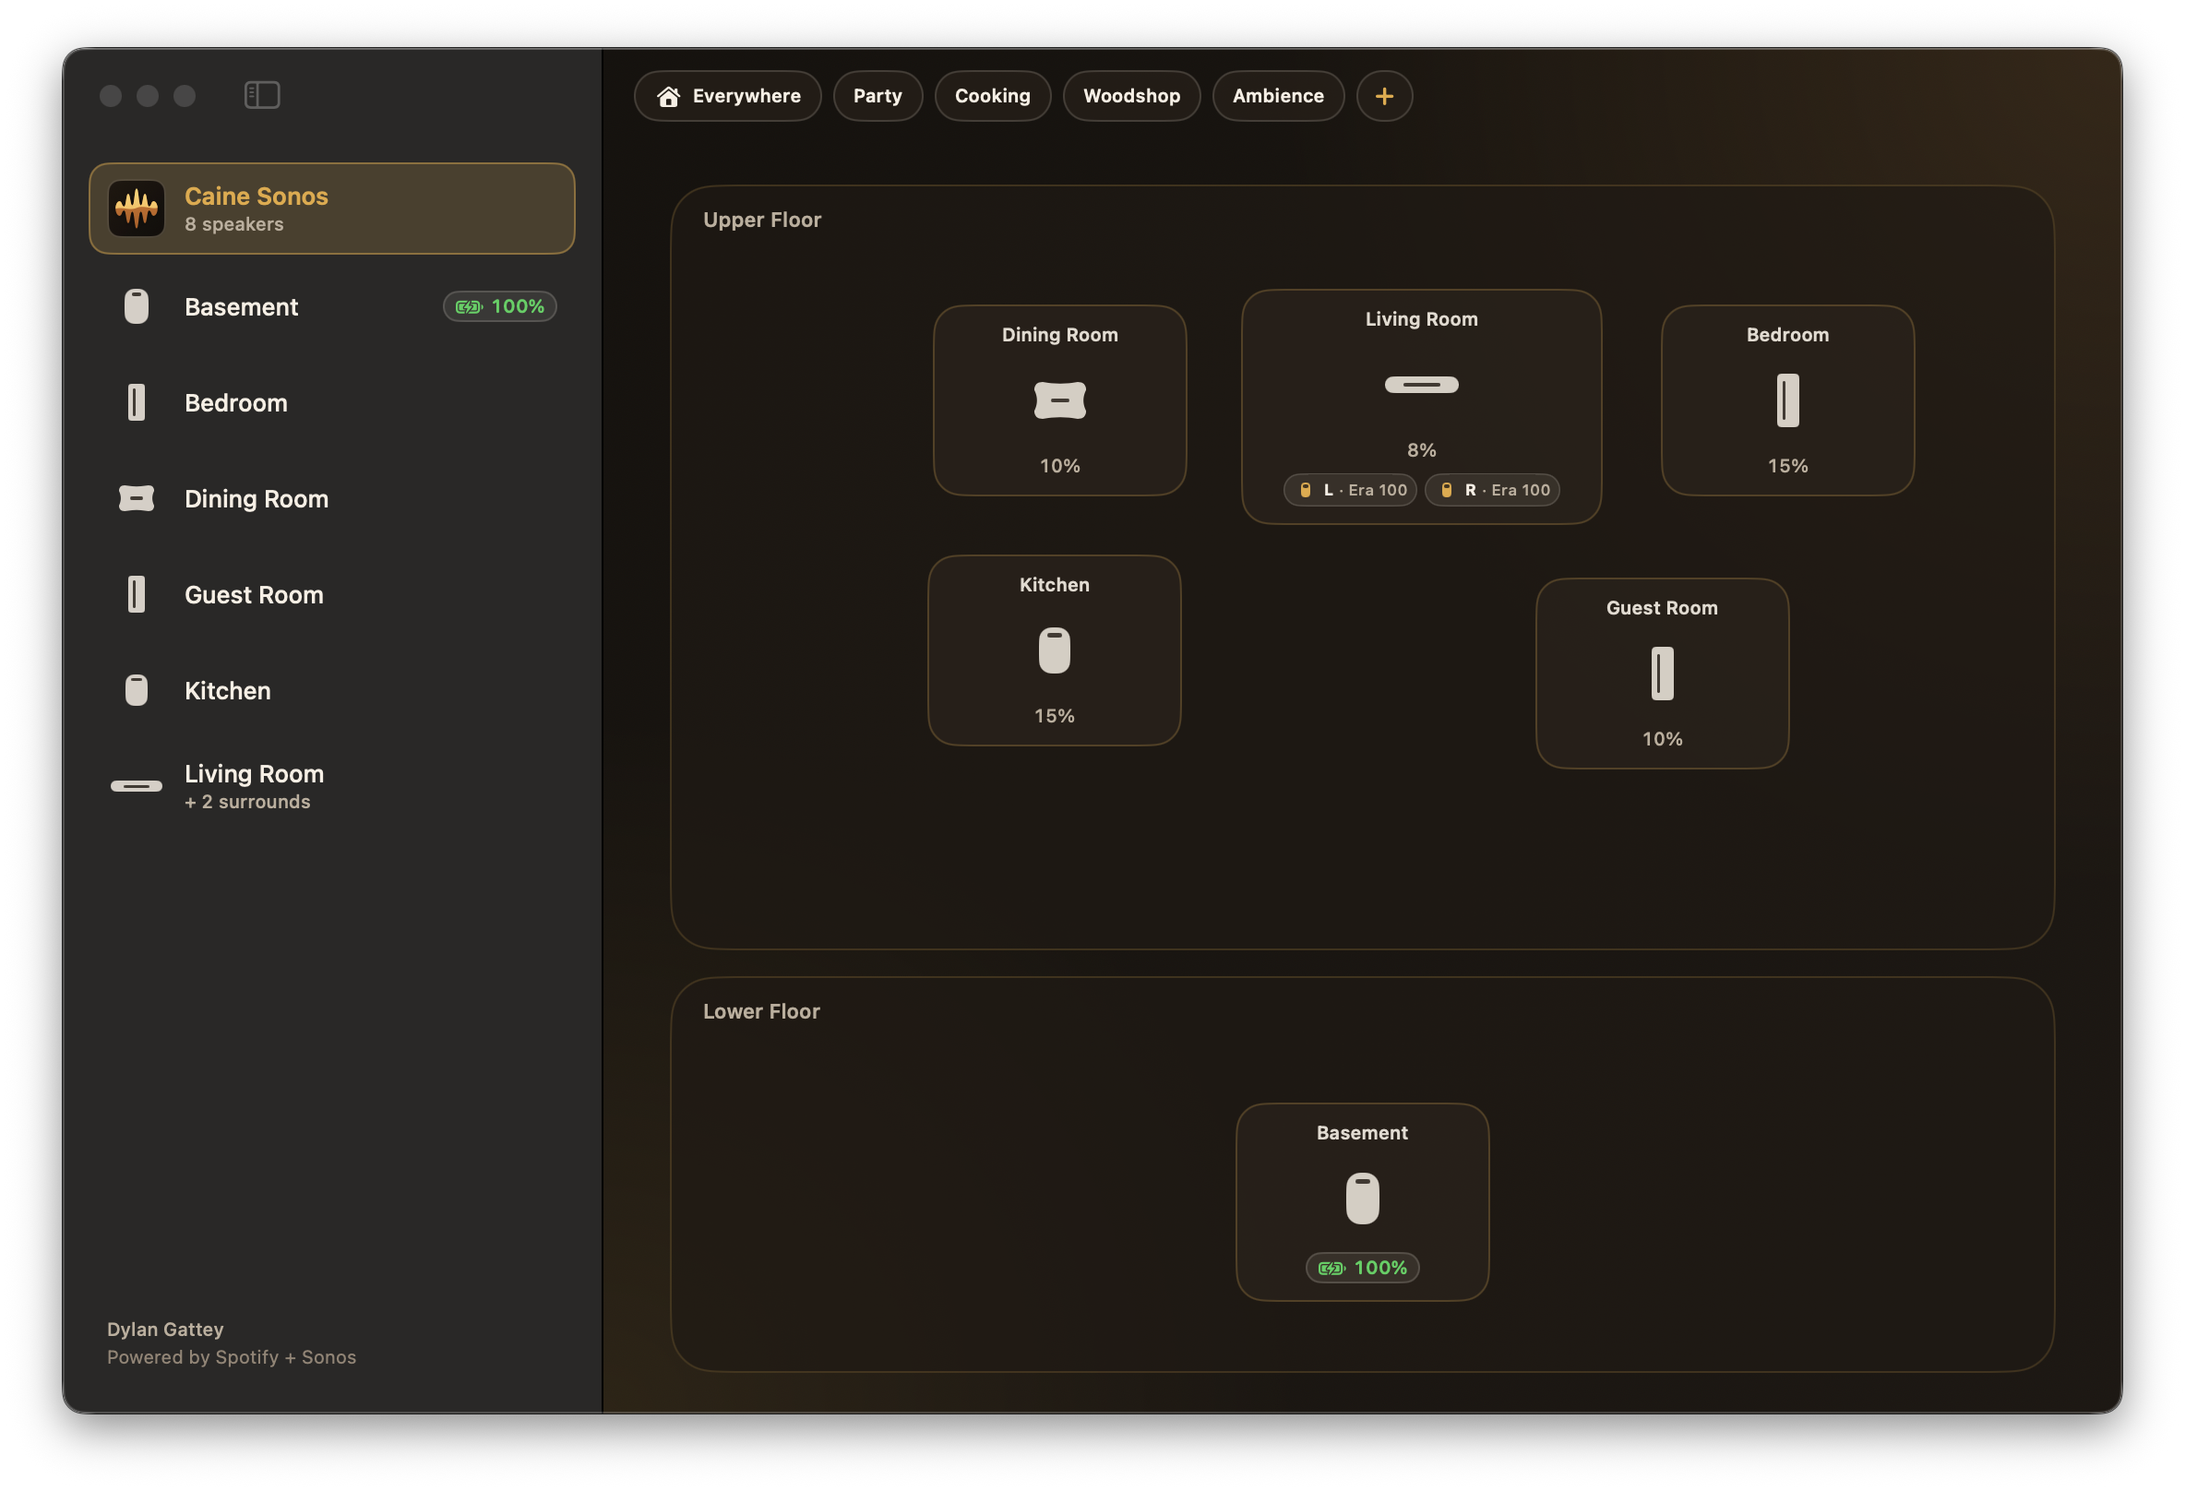
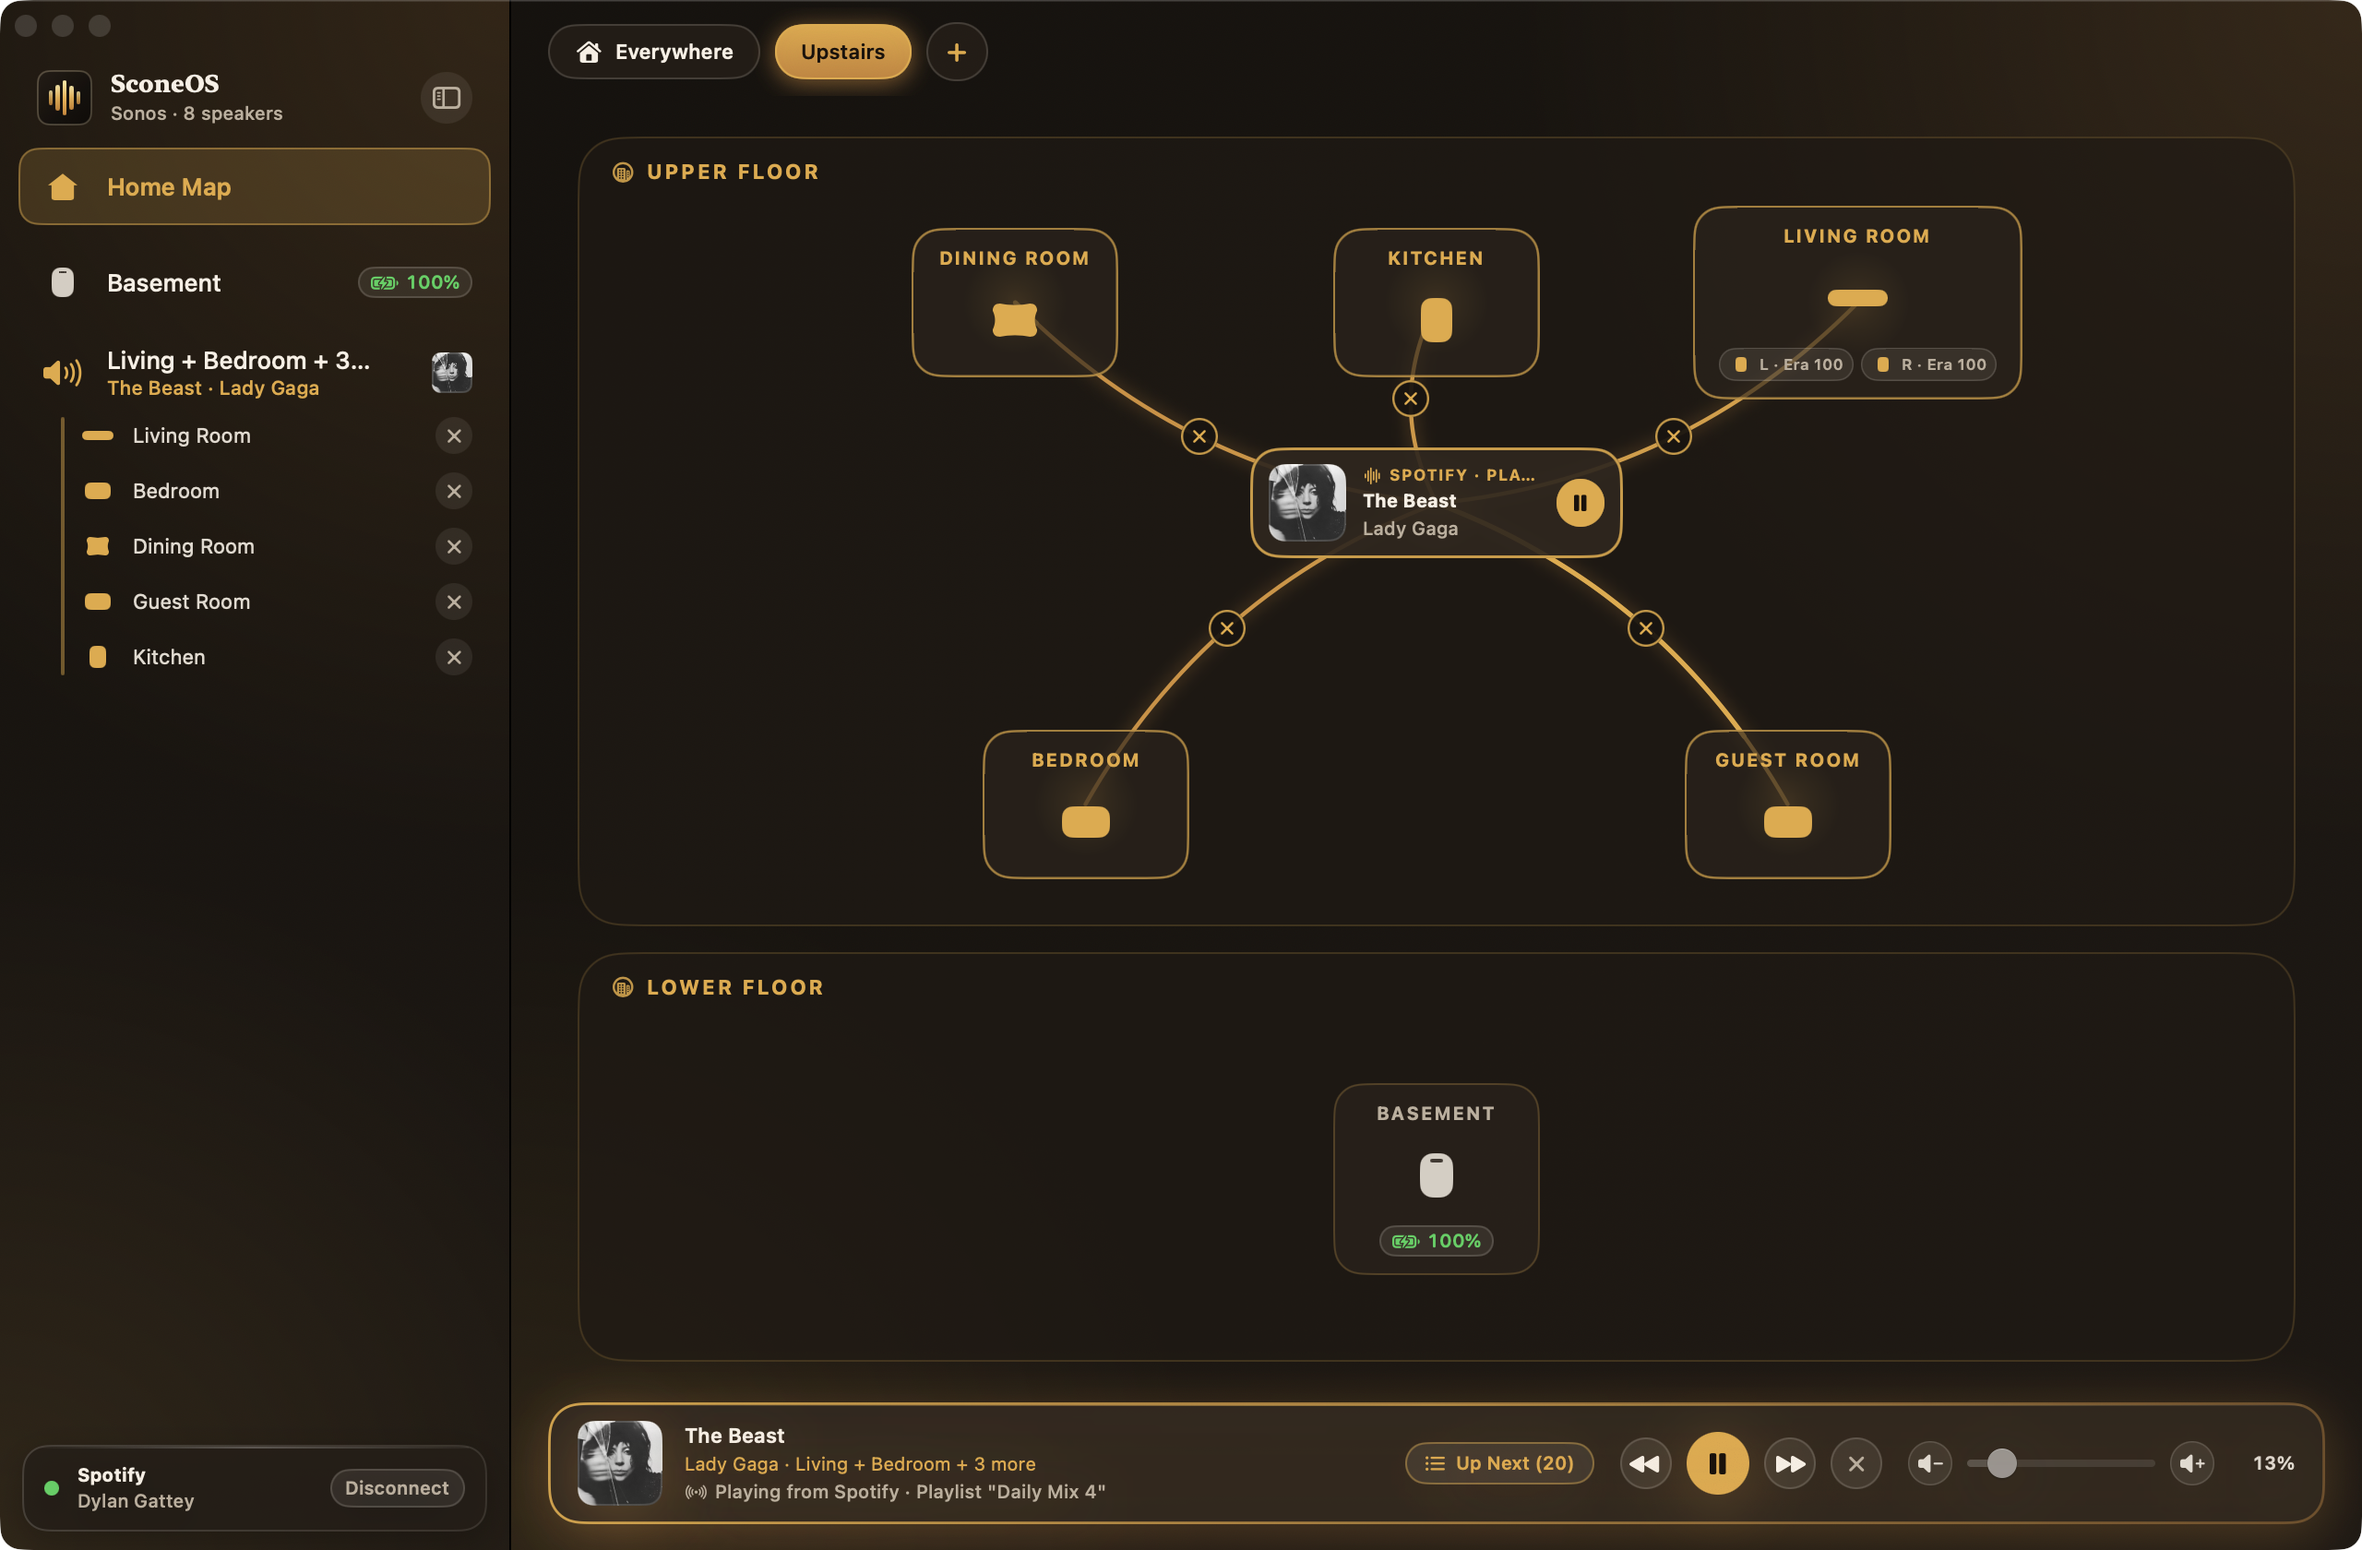
Remove nested preview bezels and use tight macOS window capture

diff --git a/server/app/page.tsx b/server/app/page.tsx
@@ -10,18 +10,15 @@ export default function HomePage() {
     <main className={styles.page}>
       <div className={styles.heroUnit}>
         <div className={styles.photoColumn}>
-          <div className={styles.frameOuter}>
-            <div className={styles.frameScreen}>
-              {/* eslint-disable-next-line @next/next/no-img-element */}
-              <img
-                src="/sconeos-preview.png"
-                alt="Sconeos floorplan map and multi-room speaker controls on macOS"
-                width={2368}
-                height={1616}
-                fetchPriority="high"
-              />
-            </div>
-          </div>
+          {/* eslint-disable-next-line @next/next/no-img-element */}
+          <img
+            src="/sconeos-preview.png"
+            alt="Sconeos floorplan map and multi-room speaker controls on macOS"
+            width={2560}
+            height={1680}
+            fetchPriority="high"
+            className={styles.windowPreview}
+          />
         </div>
 
         <div className={styles.downloadColumn}>

diff --git a/server/app/page.module.css b/server/app/page.module.css
@@ -241,29 +241,13 @@
   color: var(--text-secondary);
 }
 
-.frameOuter {
-  background: linear-gradient(145deg, rgba(255, 255, 255, 0.08), rgba(255, 255, 255, 0.02));
-  border: 1px solid rgba(212, 150, 58, 0.22);
-  border-radius: 18px;
-  padding: 14px;
-  max-width: 620px;
-  width: 100%;
-  box-shadow: 0 24px 64px rgba(0, 0, 0, 0.55);
-}
-
-.frameScreen {
-  position: relative;
-  aspect-ratio: 2368 / 1616;
-  overflow: hidden;
-  border-radius: 11px;
-  background: #0a0a0d;
-}
-
-.frameScreen img {
+.windowPreview {
   display: block;
   width: 100%;
-  height: 100%;
-  object-fit: cover;
+  max-width: 640px;
+  height: auto;
+  border-radius: 12px;
+  filter: drop-shadow(0 24px 56px rgba(0, 0, 0, 0.6));
 }
 
 @media (max-width: 960px) {
@@ -286,8 +270,8 @@
     justify-content: center;
   }
 
-  .frameOuter {
-    max-width: min(100%, 560px);
+  .windowPreview {
+    max-width: min(100%, 580px);
     margin: 0 auto;
   }
 
@@ -304,9 +288,5 @@
 
   .heroUnit {
     gap: 24px;
-  }
-
-  .frameOuter {
-    padding: 8px;
   }
 }
